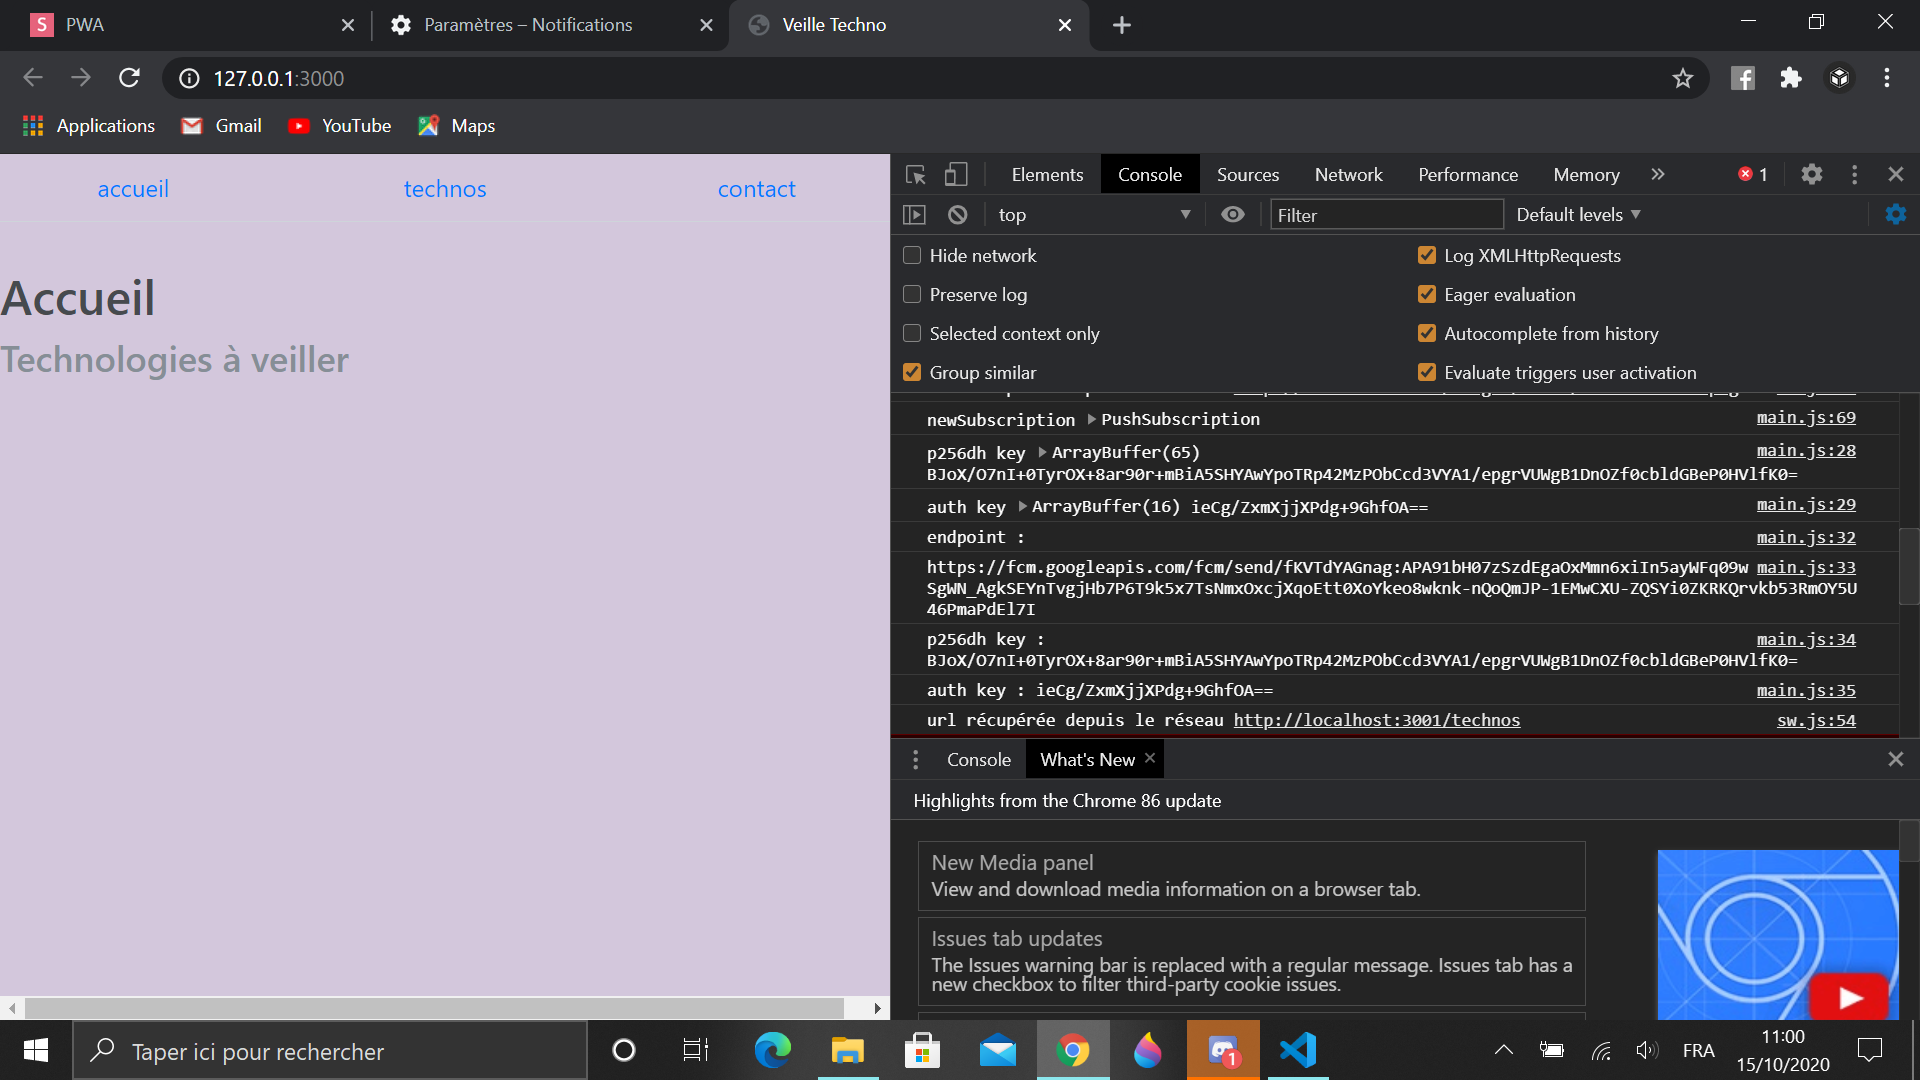
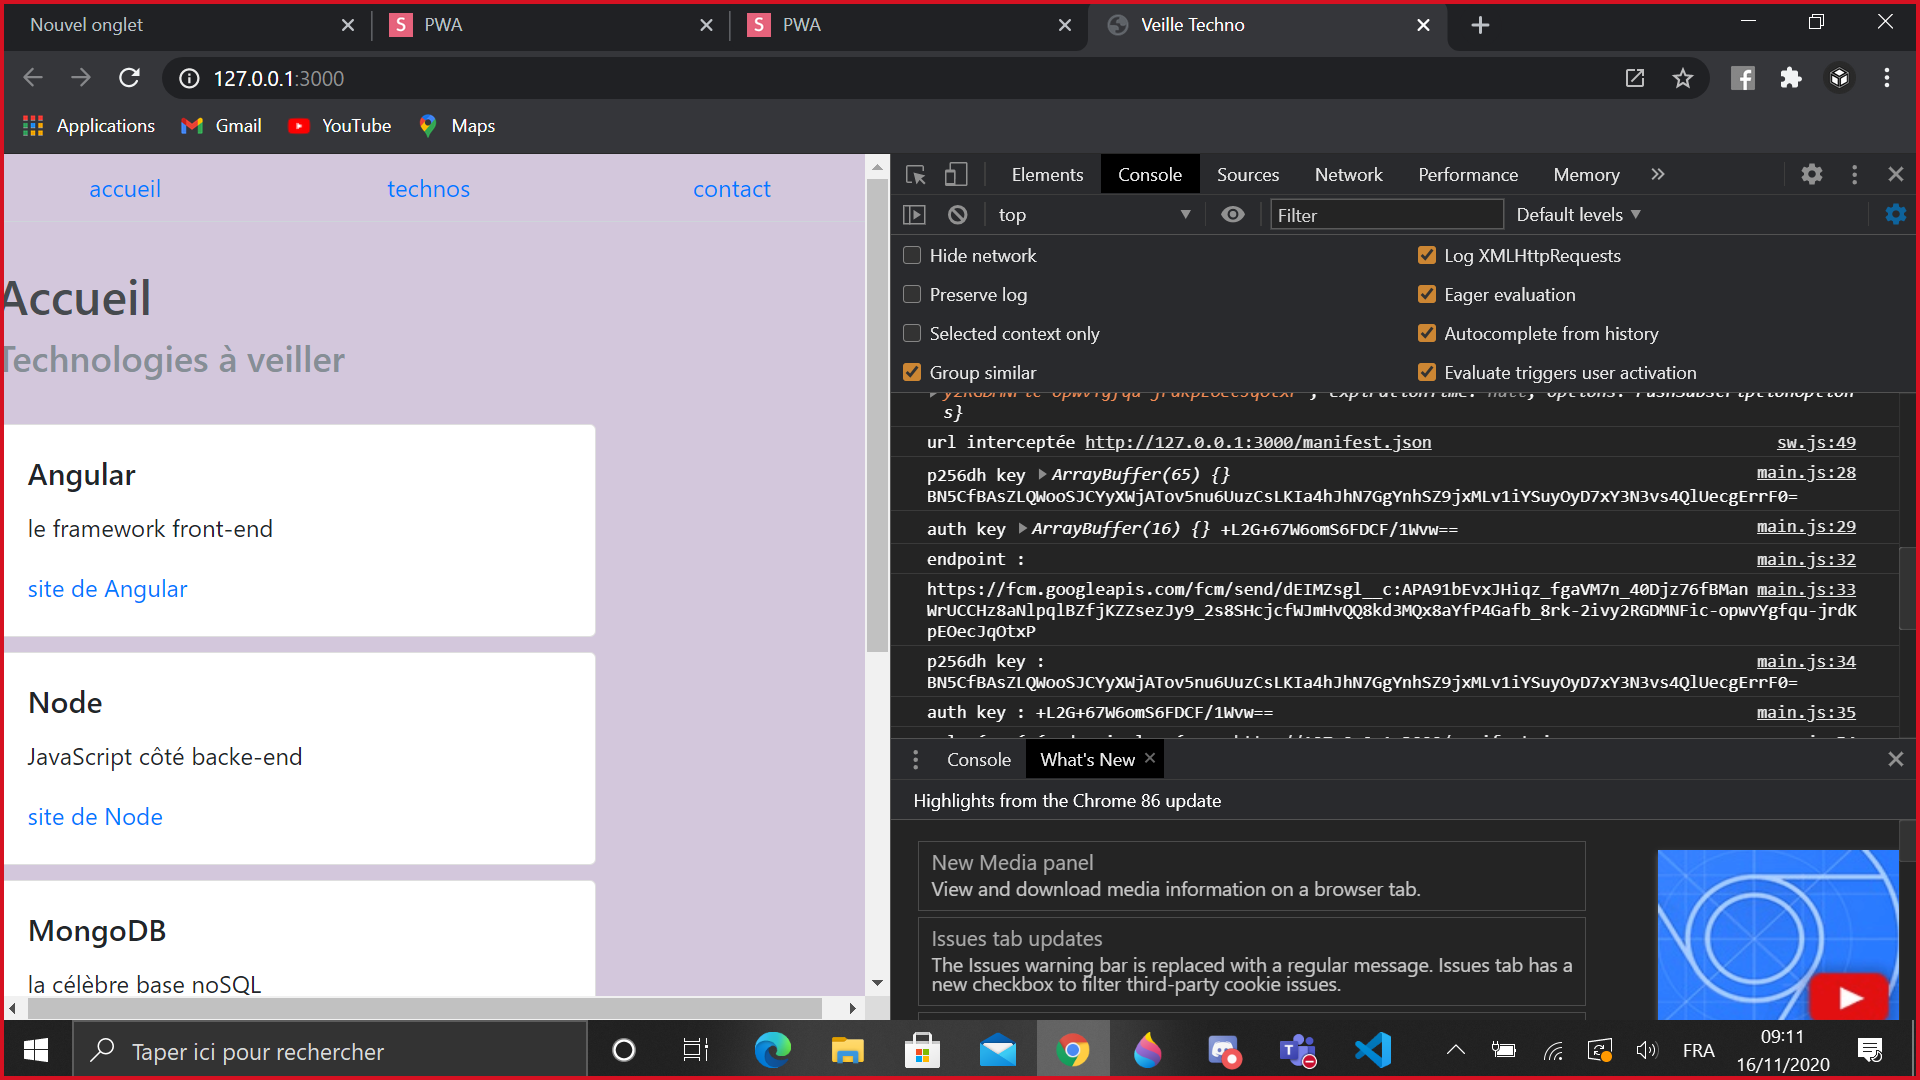
NotifPush

diff --git a/server/pushServer.js b/server/pushServer.js
@@ -1,0 +1,27 @@
+// 8.5 Envoyer une notification push depuis Node
+// Import des objets et librairies nécessaires
+const webPush = require('web-push');
+const pushServerKeys = require('./pushServerKeys.json');
+const pushClientSubscription = require('./pushClientSubscription.json');
+console.log(pushServerKeys, pushClientSubscription);
+ 
+// En production on ferait une boucle de l'ensemble des souscriptions pour envoyer les notifications
+// Configuration des "details" permettant au FCM de nous contacter
+webPush.setVapidDetails('mailto:quentinbc@gmail.com', pushServerKeys.publicKey, pushServerKeys.privateKey);
+ 
+// Pour sendNotification API reference sendNotification(pushSubscription, payload, options)
+// voir https://github.com/web-push-libs/web-push#sendnotificationpushsubscription-payload-options
+webPush.sendNotification(pushClientSubscription, 'Notification envoyée depuis le serveur push node :)')
+.then(
+    function(result){
+        console.log("sendNotification SUCCESS", result);
+    },
+    function(err){
+        console.log("sendNotification ERROR", err);
+    }
+)
+.catch(
+    function(err){
+        console.log("sendNotification ERROR catch", err);
+    }
+)

diff --git a/main.js b/main.js
@@ -1,6 +1,6 @@
-/*console.log('hello depuis main');
+console.log('hello depuis main');
 const technosDiv = document.querySelector('#technos');
-if(navigator.serviceWorker){
+/*if(navigator.serviceWorker){
     navigator.serviceWorker.register('sw.js').catch(err => console.error('service worker NON enregistré',err))
 }*/
 
@@ -45,7 +45,7 @@ if(navigator.serviceWorker) {
         
         	// tentative d'obtention d'une souscription
             // public vapid key générée par web-push, en prod appel d'api via fetch plutôt que static
[1 lines of base64/hex data omitted]
+            const publicKey = "BD1wuu7vwSfyIWDtvTBgt9Xt09eSVe8ykmD6Zop8LeO7Lw1BWf2X5fPs3qzrE1eRjKHOz5pVjZcO15-0l8euWUg";
             registration.pushManager.getSubscription().then(subscription => {
             
             	// Déjà une souscription, on l'affiche
